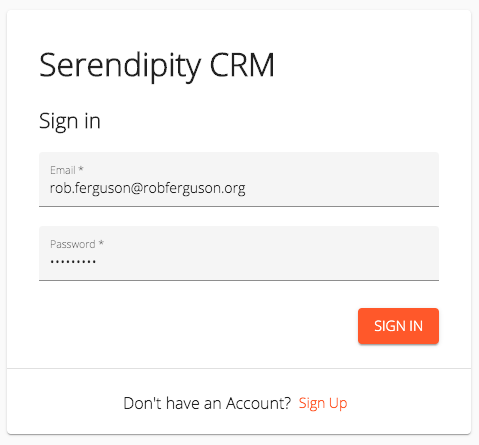
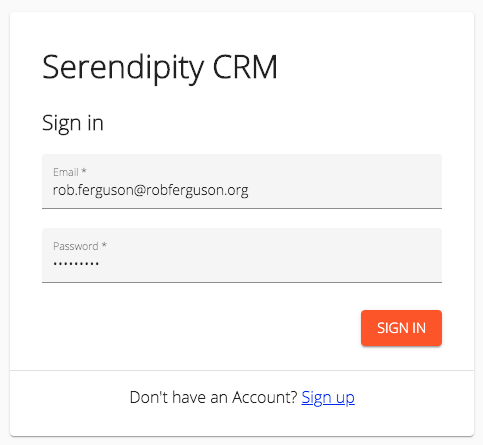
Updated the Local Auth Login component

diff --git a/projects/auth-local/src/lib/components/login/login.component.html b/projects/auth-local/src/lib/components/login/login.component.html
@@ -25,19 +25,11 @@
     </mat-card-content>
 
     <mat-card-footer class="sign-in-card-footer" fxLayoutAlign="center center">
-      Don't have an Account?
-      <button mat-button color="accent" class="register-button" (click)="onRegister()"> {{ registerButton }} </button>
+      Don't have an Account?&nbsp;
+      <a [routerLink]="" (click)="onRegister()"> {{ registerButton }} </a>
     </mat-card-footer>
 
   </mat-card>
 
 </div>
 
-<!--
-
-    <mat-card-footer class="sign-in-card-footer" fxLayoutAlign="center center">
-      Don't have an Account?
-      <button mat-raised-button color="primary" class="register-button" (click)="onRegister()"> {{ signUpButton }} </button>
-    </mat-card-footer>
-
--->

diff --git a/projects/auth-local/src/lib/components/login/login.component.ts b/projects/auth-local/src/lib/components/login/login.component.ts
@@ -18,7 +18,7 @@ const LOGIN_FORM = 'email-password-form';
 export class LoginComponent implements OnInit, OnDestroy {
 
   public loginButton = 'SIGN IN';
-  public registerButton = 'Sign Up';
+  public registerButton = 'Sign up';
 
   public formGroup: FormGroup;
   public formModel: DynamicFormModel;
